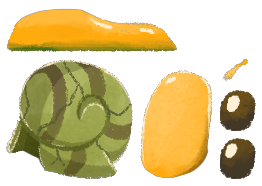
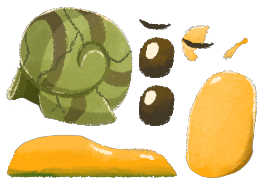
Add hit animation and 2nd snail skin

diff --git a/Assets/Scripts/PlayerController.cs b/Assets/Scripts/PlayerController.cs
@@ -127,6 +127,8 @@ public class PlayerController : MonoBehaviour
         _shellForced = true;
         _wantsToBeInShell = true;
         _wasJustHit = true;
+        _graphics.loop = false;
+        _graphics.AnimationName = "DMG";
 
         yield return new WaitForSeconds(_shellForcedTime);
 
